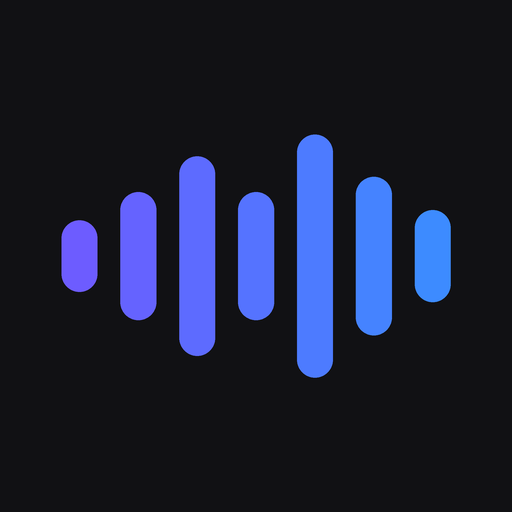
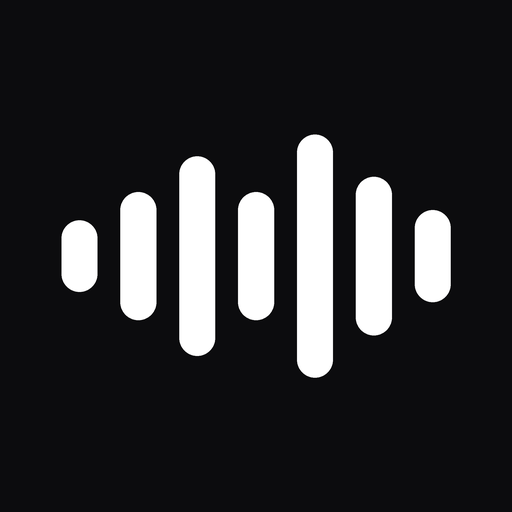
Novo ícone: onda de áudio branca em fundo preto
Claude-Session: https://claude.ai/code/session_01HP8KCBqNaSRQKX4ffhZyTF

Changed region(s): [[0.3438, 0.25, 0.6562, 0.75], [0.6875, 0.3438, 0.9062, 0.6562], [0.0938, 0.375, 0.3125, 0.625]]

diff --git a/sw.js b/sw.js
@@ -1,5 +1,5 @@
 /* Guarda a interface para abrir sem internet. Sempre tenta a versão nova primeiro. */
-const CACHE = "escuta-v3";
+const CACHE = "escuta-v4";
 const SHELL = ["./", "index.html", "styles.css", "app.js", "manifest.webmanifest", "icon-192.png", "apple-touch-icon.png"];
 self.addEventListener("install", e => { e.waitUntil(caches.open(CACHE).then(c => c.addAll(SHELL))); self.skipWaiting(); });
 self.addEventListener("activate", e => { e.waitUntil(caches.keys().then(ks => Promise.all(ks.filter(k => k !== CACHE).map(k => caches.delete(k))))); self.clients.claim(); });
